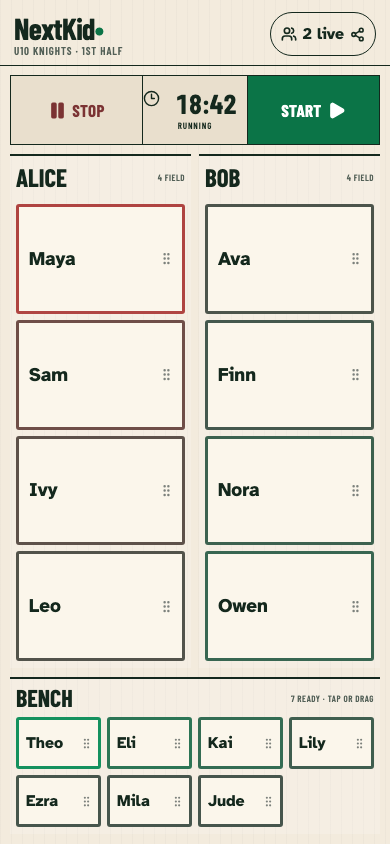
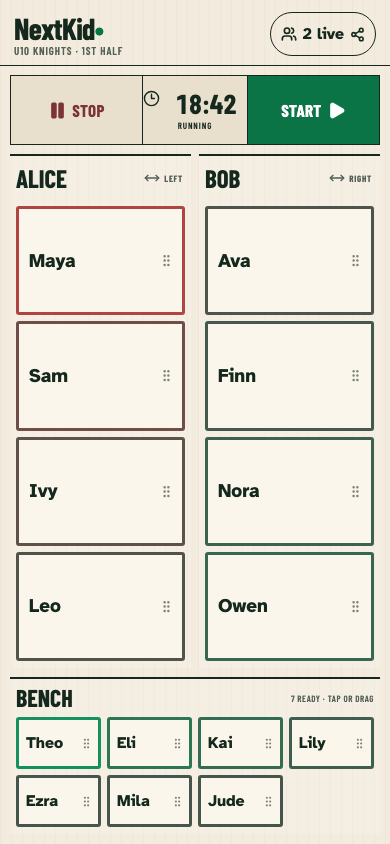
support left and right coach swapping

diff --git a/src/NextKidApp.tsx b/src/NextKidApp.tsx
@@ -1,10 +1,11 @@
-import { useMemo, useState, type DragEvent } from 'react';
+import { useMemo, useRef, useState, type DragEvent, type PointerEvent } from 'react';
 import {
   Check,
   ChevronRight,
   Clock3,
   GripVertical,
   Link2,
+  MoveHorizontal,
   Pause,
   Play,
   Plus,
@@ -117,8 +118,8 @@ function NewGameScreen() {
         <p>Coach names label the two fields. Player names can be changed until the clock starts.</p>
       </section>
       <section className="coach-row" aria-label="Coaches">
-        <label>Alice’s field<input defaultValue="Alice" /></label>
-        <label>Bob’s field<input defaultValue="Bob" /></label>
+        <label>Left coach<input defaultValue="Alice" /></label>
+        <label>Right coach<input defaultValue="Bob" /></label>
       </section>
       <section className="roster-editor">
         <div className="section-heading"><h2>Players</h2><span>15 MAX</span></div>
@@ -232,7 +233,41 @@ function GameScreen({ paused = false, balanced = false }: { paused?: boolean; ba
   }, [balanced]);
   const [running, setRunning] = useState(!paused);
   const [zones, setZones] = useState(initialZones);
+  const [coachOrder, setCoachOrder] = useState<('alice' | 'bob')[]>(['alice', 'bob']);
   const [selected, setSelected] = useState<string | null>(null);
+  const coachPointer = useRef<{ x: number; moved: boolean } | null>(null);
+  const suppressCoachClick = useRef(false);
+
+  const swapCoaches = () => setCoachOrder(([left, right]) => [right, left]);
+
+  const coachPointerDown = (event: PointerEvent<HTMLButtonElement>) => {
+    coachPointer.current = { x: event.clientX, moved: false };
+    event.currentTarget.setPointerCapture(event.pointerId);
+  };
+
+  const coachPointerMove = (event: PointerEvent<HTMLButtonElement>) => {
+    if (coachPointer.current && Math.abs(event.clientX - coachPointer.current.x) > 36) {
+      coachPointer.current.moved = true;
+    }
+  };
+
+  const coachPointerUp = (event: PointerEvent<HTMLButtonElement>) => {
+    if (coachPointer.current?.moved) {
+      suppressCoachClick.current = true;
+      swapCoaches();
+      window.setTimeout(() => { suppressCoachClick.current = false; }, 0);
+    }
+    coachPointer.current = null;
+    if (event.currentTarget.hasPointerCapture(event.pointerId)) event.currentTarget.releasePointerCapture(event.pointerId);
+  };
+
+  const coachClick = () => {
+    if (suppressCoachClick.current) {
+      suppressCoachClick.current = false;
+      return;
+    }
+    swapCoaches();
+  };
 
   const movePlayer = (name: string, destination: keyof typeof zones) => {
     setZones((current) => {
@@ -271,14 +306,29 @@ function GameScreen({ paused = false, balanced = false }: { paused?: boolean; ba
         </button>
       </section>
       <section className="field-grid" aria-label="Player placement fields">
-        {(['alice', 'bob'] as const).map((zone) => (
+        {coachOrder.map((zone, index) => (
           <section
             className={`field-ledger ${selected ? 'is-target' : ''}`}
             key={zone}
+            data-testid={index === 0 ? 'left-field' : 'right-field'}
             onDragOver={(event) => event.preventDefault()}
             onDrop={(event) => drop(event, zone)}
           >
-            <div className="field-heading"><h2>{zone === 'alice' ? 'Alice' : 'Bob'}</h2><span>{zones[zone].length} FIELD</span></div>
+            <div className="field-heading">
+              <h2>{zone === 'alice' ? 'Alice' : 'Bob'}</h2>
+              <button
+                className="coach-drag-handle"
+                type="button"
+                aria-label={`${zone === 'alice' ? 'Alice' : 'Bob'}, ${index === 0 ? 'left' : 'right'} coach. Drag horizontally or press to swap sides`}
+                onPointerDown={coachPointerDown}
+                onPointerMove={coachPointerMove}
+                onPointerUp={coachPointerUp}
+                onClick={coachClick}
+              >
+                <MoveHorizontal size={16} aria-hidden="true" />
+                <span>{index === 0 ? 'LEFT' : 'RIGHT'}</span>
+              </button>
+            </div>
             {zones[zone].map((name) => {
               const player = balancedPlayers.get(name)!;
               return <PlayerStrip key={name} player={player} onDragStart={dragStart} onClick={() => selected === name ? setSelected(null) : setSelected(name)} />;

diff --git a/src/styles.css b/src/styles.css
@@ -125,10 +125,14 @@ button:focus-visible, input:focus-visible { outline: 3px solid #2a67d3; outline-
 .clock-bar span { grid-column: 1 / -1; font: 600 9px/1 'Barlow Condensed'; letter-spacing: .1em; margin-top: 4px; }
 .field-grid { min-height: 0; display: grid; grid-template-columns: 1fr 1fr; gap: 8px; }
 .field-ledger, .bench-ledger { position: relative; border-top: 2px solid var(--ink); background: rgba(255,255,255,.18); }
-.field-ledger { min-height: 0; display: grid; grid-template-rows: 42px repeat(4, minmax(48px, 1fr)); gap: 6px; padding: 0 6px 7px; }
+.field-ledger { min-height: 0; display: grid; grid-template-rows: 44px repeat(4, minmax(48px, 1fr)); gap: 6px; padding: 0 6px 7px; }
 .field-heading { display: flex; align-items: center; justify-content: space-between; min-width: 0; }
 .field-heading h2 { margin: 0; font: 700 25px/1 'Barlow Condensed'; text-transform: uppercase; }
-.field-heading span { font: 600 9px/1 'Barlow Condensed'; letter-spacing: .06em; color: var(--graphite); white-space: nowrap; }
+.field-heading > span { font: 600 9px/1 'Barlow Condensed'; letter-spacing: .06em; color: var(--graphite); white-space: nowrap; }
+.coach-drag-handle { min-width: 76px; min-height: 44px; border: 0; background: transparent; display: flex; align-items: center; justify-content: flex-end; gap: 4px; padding: 0 2px; color: var(--graphite); cursor: ew-resize; touch-action: none; }
+.coach-drag-handle span { font: 700 9px/1 'Barlow Condensed'; letter-spacing: .08em; }
+.coach-drag-handle:hover { color: var(--ink); }
+.coach-drag-handle:active { color: var(--green); }
 .player-strip { position: relative; width: 100%; min-width: 0; min-height: 48px; display: flex; align-items: center; justify-content: space-between; gap: 4px; border: 3px solid var(--graphite); border-radius: 3px; background: #fbf6eb; padding: 0 8px 0 10px; cursor: grab; }
 .player-strip:active { cursor: grabbing; }
 .strip-name { min-width: 0; overflow: hidden; text-overflow: ellipsis; font-size: 19px; font-weight: 700; }

diff --git a/src/NextKidApp.stories.tsx b/src/NextKidApp.stories.tsx
@@ -1,5 +1,5 @@
 import type { Meta, StoryObj } from '@storybook/react-vite';
-import { expect, userEvent, within } from 'storybook/test';
+import { expect, fireEvent, userEvent, within } from 'storybook/test';
 import { NextKidApp } from './NextKidApp';
 
 const meta = {
@@ -24,6 +24,8 @@ export const NewGame: Story = {
   args: { scenario: 'new-game' },
   play: async ({ canvasElement }) => {
     const canvas = within(canvasElement);
+    await expect(canvas.getByLabelText('Left coach')).toHaveValue('Alice');
+    await expect(canvas.getByLabelText('Right coach')).toHaveValue('Bob');
     await userEvent.click(canvas.getByRole('button', { name: /begin pregame/i }));
     await expect(canvas.getByRole('status')).toHaveTextContent(/game link ready/i);
   },
@@ -56,6 +58,13 @@ export const GameRunningTypical15Players: Story = {
     await expect(canvas.getByText('Bob')).toBeVisible();
     await expect(canvas.getByText('Bench')).toBeVisible();
     await expect(canvas.getAllByRole('button', { name: /playing time|field time|bench time/i })).toHaveLength(15);
+    const leftCoach = canvas.getByRole('button', { name: /Alice, left coach/i });
+    await fireEvent.pointerDown(leftCoach, { pointerId: 1, clientX: 40 });
+    await fireEvent.pointerMove(leftCoach, { pointerId: 1, clientX: 100 });
+    await fireEvent.pointerUp(leftCoach, { pointerId: 1, clientX: 100 });
+    await expect(canvas.getByTestId('left-field')).toHaveTextContent('Bob');
+    await userEvent.click(canvas.getByRole('button', { name: /Bob, left coach/i }));
+    await expect(canvas.getByTestId('left-field')).toHaveTextContent('Alice');
     await userEvent.click(canvas.getByRole('button', { name: /^STOP$/i }));
     await expect(canvas.getByText('PAUSED')).toBeVisible();
     await userEvent.click(canvas.getByRole('button', { name: /^START$/i }));

diff --git a/DESIGN.md b/DESIGN.md
@@ -117,6 +117,13 @@ components:
     padding: "0 8px 0 10px"
     height: "48px"
     width: "100%"
+  coach-side-handle:
+    backgroundColor: "transparent"
+    textColor: "{colors.graphite-pencil}"
+    typography: "{typography.label}"
+    rounded: "0"
+    padding: "0 2px"
+    height: "44px"
 ---
 
 # Design System: NextKid
@@ -194,7 +201,7 @@ The palette reads like materials gathered on a touchline: cream card stock, fore
 
 The core surface is a centered phone sheet capped at 390px wide and 844px high, with overflow intentionally contained. Desktop simply reveals the dark touchline surround; it does not introduce a separate desktop information architecture. The smallest declared width is 320px, while the implemented sheet keeps at least 600px of height.
 
-The layout uses compact 6–10px internal gaps, a 14px working gutter, and 18–24px spacing for major editorial pauses. One-pixel graphite rules separate ordinary ledger information; two-pixel forest rules announce zones; three-pixel tape borders make player strips easy to locate. Dense two-column grids are reserved for parallel or repeatable choices, while primary progression actions span the available width. On the shipped placement surface, the compact header and clock sit above two equal field ledgers and one full-width bench ledger so all 15 player names remain in the first viewport; that is the Match Card's signature composition, not a default grid for unrelated workflows.
+The layout uses compact 6–10px internal gaps, a 14px working gutter, and 18–24px spacing for major editorial pauses. One-pixel graphite rules separate ordinary ledger information; two-pixel forest rules announce zones; three-pixel tape borders make player strips easy to locate. Dense two-column grids are reserved for parallel or repeatable choices, while primary progression actions span the available width. On the shipped placement surface, the compact header and clock sit above two equal coach field ledgers and one full-width bench ledger so all 15 player names remain in the first viewport. Each coach field travels with its players when dragged horizontally from left to right; that is the Match Card's signature composition, not a default grid for unrelated workflows.
 
 At compact heights of 700px or less, the game view shortens its header, clock row, player strips, and gaps as one coordinated density step. Critical placement content remains visible instead of becoming scroll-dependent.
 
@@ -255,6 +262,10 @@ The clock is a three-part ruled bar with separate STOP and START destinations ar
 
 The strip contains the player's name and a grip mark—no displayed minutes and no recommended move. Its 3px border is interpolated continuously from weathered graphite through fluorescent green or red endpoints according to the normalized balance, while the accessible name describes the same condition in words. Pointer hover adds a restrained lift; tap selection exposes destination zones without constraining the coach's choice.
 
+### Coach Side Handle
+
+Each field heading pairs the coach's name with a 44px horizontal-drag handle labeled LEFT or RIGHT. Dragging the handle across swaps the complete coach field columns, including their players; pressing the same control provides an accessible keyboard and tap alternative. The horizontal arrow and side word travel together so the interaction does not depend on gesture discovery alone.
+
 ## Do's and Don'ts
 
 ### Do:
@@ -264,6 +275,7 @@ The strip contains the player's name and a grip mark—no displayed minutes and 
 - **Do** preserve the cream-paper, forest-ink, graphite-rule material stack across new surfaces.
 - **Do** let rules, dense grids, and explicit labels carry structure before adding depth or decoration.
 - **Do** keep critical touch targets at least 44px high in ordinary phone layouts.
+- **Do** label coach setup fields by physical side and keep side swapping available through both horizontal drag and press.
 
 ### Don't:
 

diff --git a/.impeccable/surfaces/readme-md.md b/.impeccable/surfaces/readme-md.md
@@ -15,7 +15,7 @@ Two microsoccer coaches use a shared phone URL outdoors and need to record atten
 
 ## Direction and memorable moment
 
-Match Card: a living referee ledger using weatherproof cream paper, forest ink, graphite rules, and fluorescent red/green roster tape. The memorable moment is the quiet placement board: Alice’s field, Bob’s field, and the bench keep all 15 names visible while only their borders carry the fairness signal.
+Match Card: a living referee ledger using weatherproof cream paper, forest ink, graphite rules, and fluorescent red/green roster tape. The memorable moment is the quiet placement board: the left coach field, right coach field, and bench keep all 15 names visible while only their borders carry the fairness signal. Either coach field can be dragged horizontally to swap sides.
 
 Approved composition: `.impeccable/mocks/placement-only.json` (explicit user direction after the visual probes).
 
@@ -25,7 +25,8 @@ Approved composition: `.impeccable/mocks/placement-only.json` (explicit user dir
 | --- | --- | --- |
 | Header | NextKid wordmark, phase title, shared-live state | Semantic HTML/CSS |
 | Clock | Explicit STOP and START/KEEP RUNNING destinations with central tabular time | Buttons and CSS |
-| Placement | Alice and Bob field ledgers plus a full-width seven-player bench; all 15 names coexist in one viewport | CSS grid/list |
+| Placement | Left and right coach field ledgers plus a full-width seven-player bench; all 15 names coexist in one viewport | CSS grid/list |
+| Coach side swap | A 44px horizontal-drag handle in each coach heading; dragging or pressing swaps the complete field columns | Pointer events, button semantics, CSS grid |
 | Player marker | Name only, with a continuous red–black–green border and drag affordance; no displayed minutes or recommendation | Button/HTML/CSS |
 | Pregame | Arrival-order checklist with late/absent note states | Semantic form controls |
 | Setup | Coach names, roster, single primary progression action | Semantic form controls |

diff --git a/PRODUCT.md b/PRODUCT.md
@@ -38,6 +38,7 @@ Rather than enforcing a rigid rotation schedule, NextKid continuously normalizes
 - Track field time and bench time only while a player is active.
 - Show the normalized field-minus-bench balance on a continuous green-through-black-to-red scale, saturating at -2.5 and +2.5 minutes.
 - Permit any manual player move regardless of the recommendation.
+- Label coach-name inputs by physical side (Left coach and Right coach), and allow the two coach field columns to swap sides during the game.
 - Run as a phone-only website; desktop may simply stretch the phone interface.
 - Assumed for this prototype: every primary scenario fits within a 390×844 CSS-pixel viewport with no page scrolling.
 - Delete backing game data 24 hours after the game stops.
